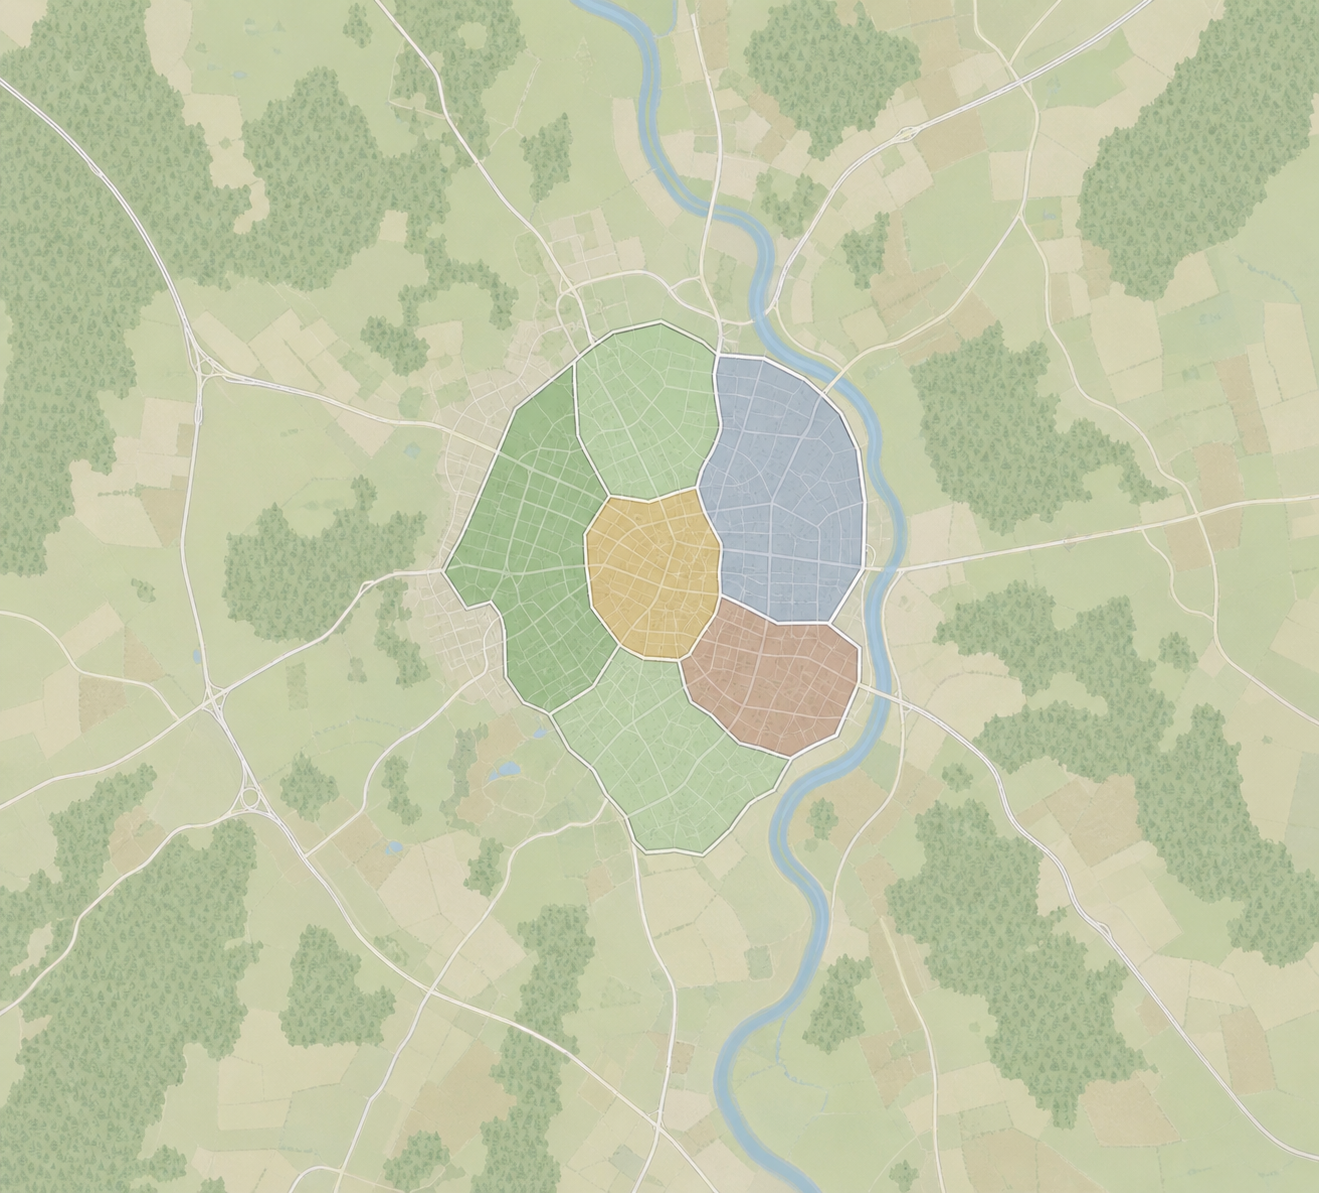
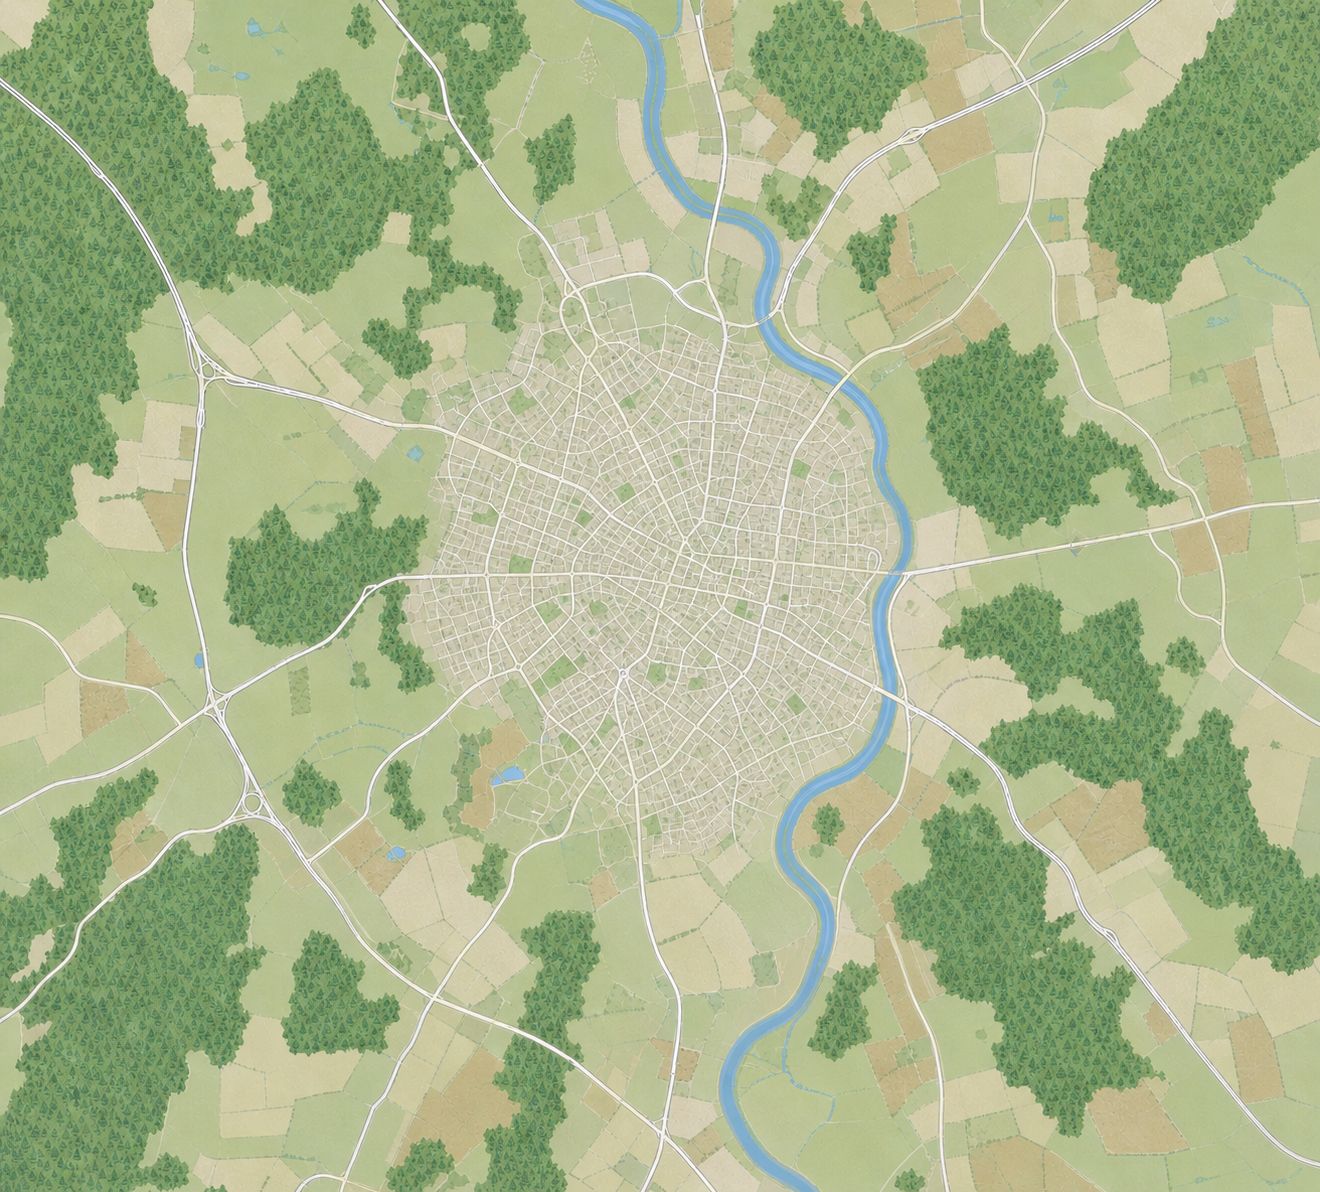
Improve city background

diff --git a/src/game/CityScene.ts b/src/game/CityScene.ts
@@ -76,7 +76,12 @@ export class CityScene extends Scene {
   }
 
   create() {
-    // ── Tiled background: 9×9 grid centered on world origin ──────────
+    // ── Tiled background: 9×9 grid centered on the districts' bounding box ──
+    const allPts = DISTRICTS.flatMap((d) => d.points);
+    const allBox = bboxOf(allPts);
+    const mapCX = (allBox.minX + allBox.maxX) / 2;
+    const mapCY = (allBox.minY + allBox.maxY) / 2;
+
     const src = this.textures
       .get("background")
       .getSourceImage() as HTMLImageElement;
@@ -85,8 +90,15 @@ export class CityScene extends Scene {
     const totalW = tileW * 9;
     const totalH = tileH * 9;
     this.add
-      .tileSprite(-totalW / 2, -totalH / 2, totalW, totalH, "background")
-      .setOrigin(0, 0);
+      .tileSprite(
+        mapCX - totalW / 2,
+        mapCY - totalH / 2,
+        totalW,
+        totalH,
+        "background",
+      )
+      .setOrigin(0, 0)
+      .setDepth(-1);
 
     // ── Center camera on world origin ─────────────────────────────────
     this.cameras.main.centerOn(0, 0);

diff --git a/src/data/gameData.ts b/src/data/gameData.ts
@@ -250,13 +250,13 @@ export const DISTRICTS: District[] = [
       { x: -62, y: -107 },
       { x: -95, y: -175 }, // → Nord border
       { x: -100, y: -257 },
-      { x: -165, y: -205 }, // outer west
-      { x: -200, y: -119 },
+      { x: -210, y: -205 }, // outer west
+      { x: -235, y: -119 },
       { x: -240, y: -20 },
-      { x: -218, y: 20 }, // outer west
-      { x: -190, y: 6 },
-      { x: -180, y: 25 },
-      { x: -180, y: 50 }, // outer west
+      { x: -250, y: 20 }, // outer west
+      { x: -260, y: 20 },
+      { x: -280, y: 25 },
+      { x: -250, y: 80 }, // outer west
       { x: -175, y: 93 },
       { x: -155, y: 120 }, // outer south-west
       { x: -125, y: 131 },
